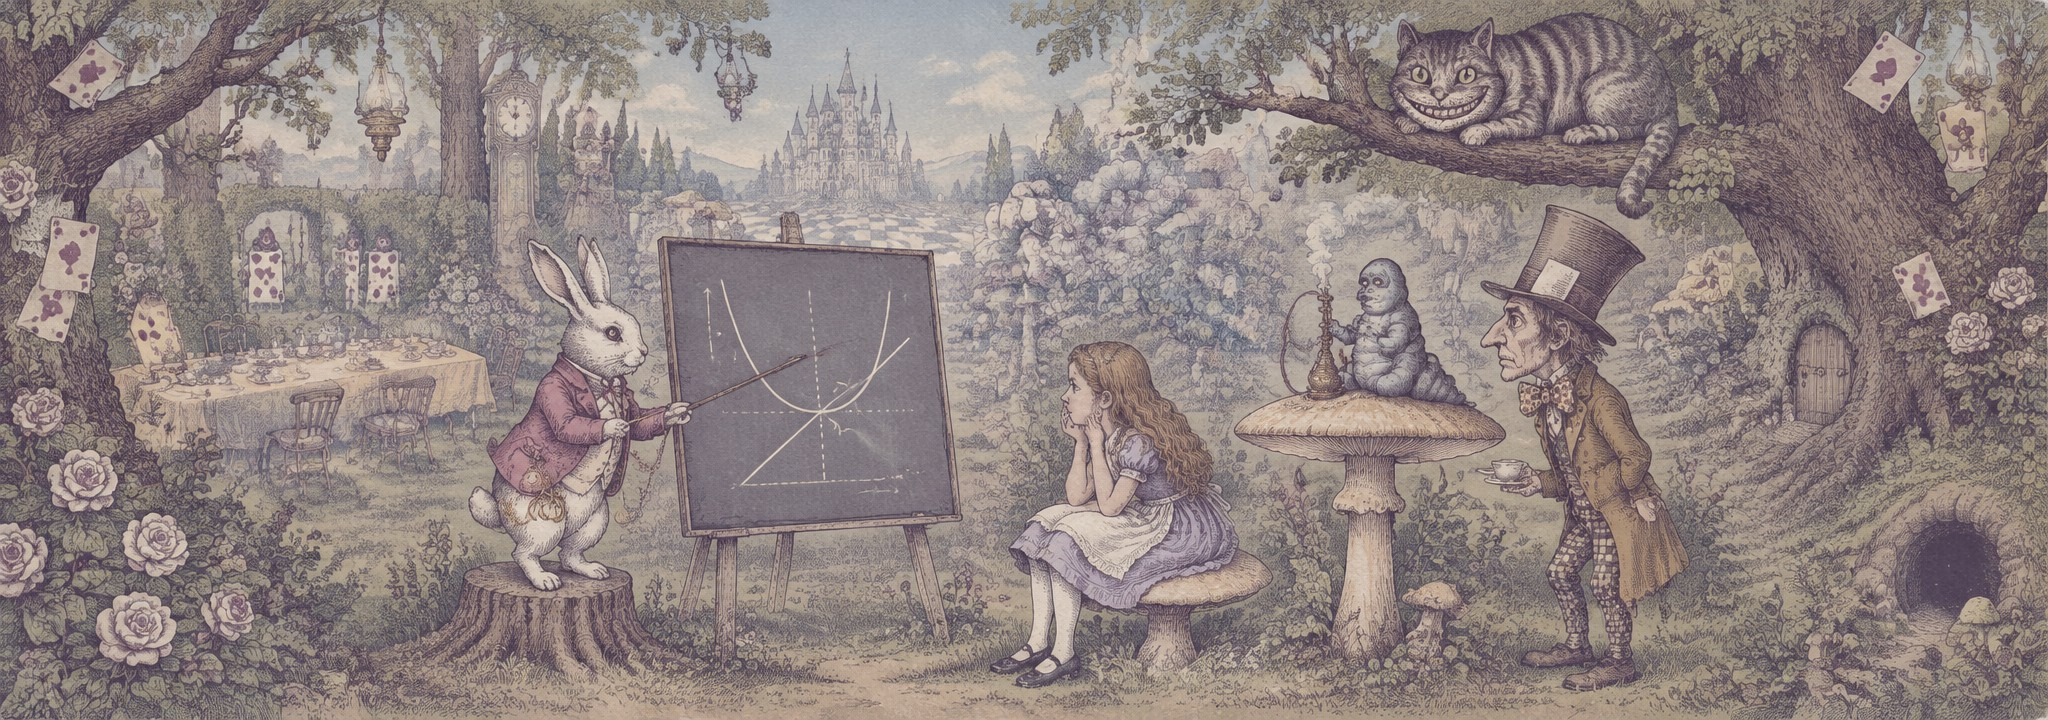
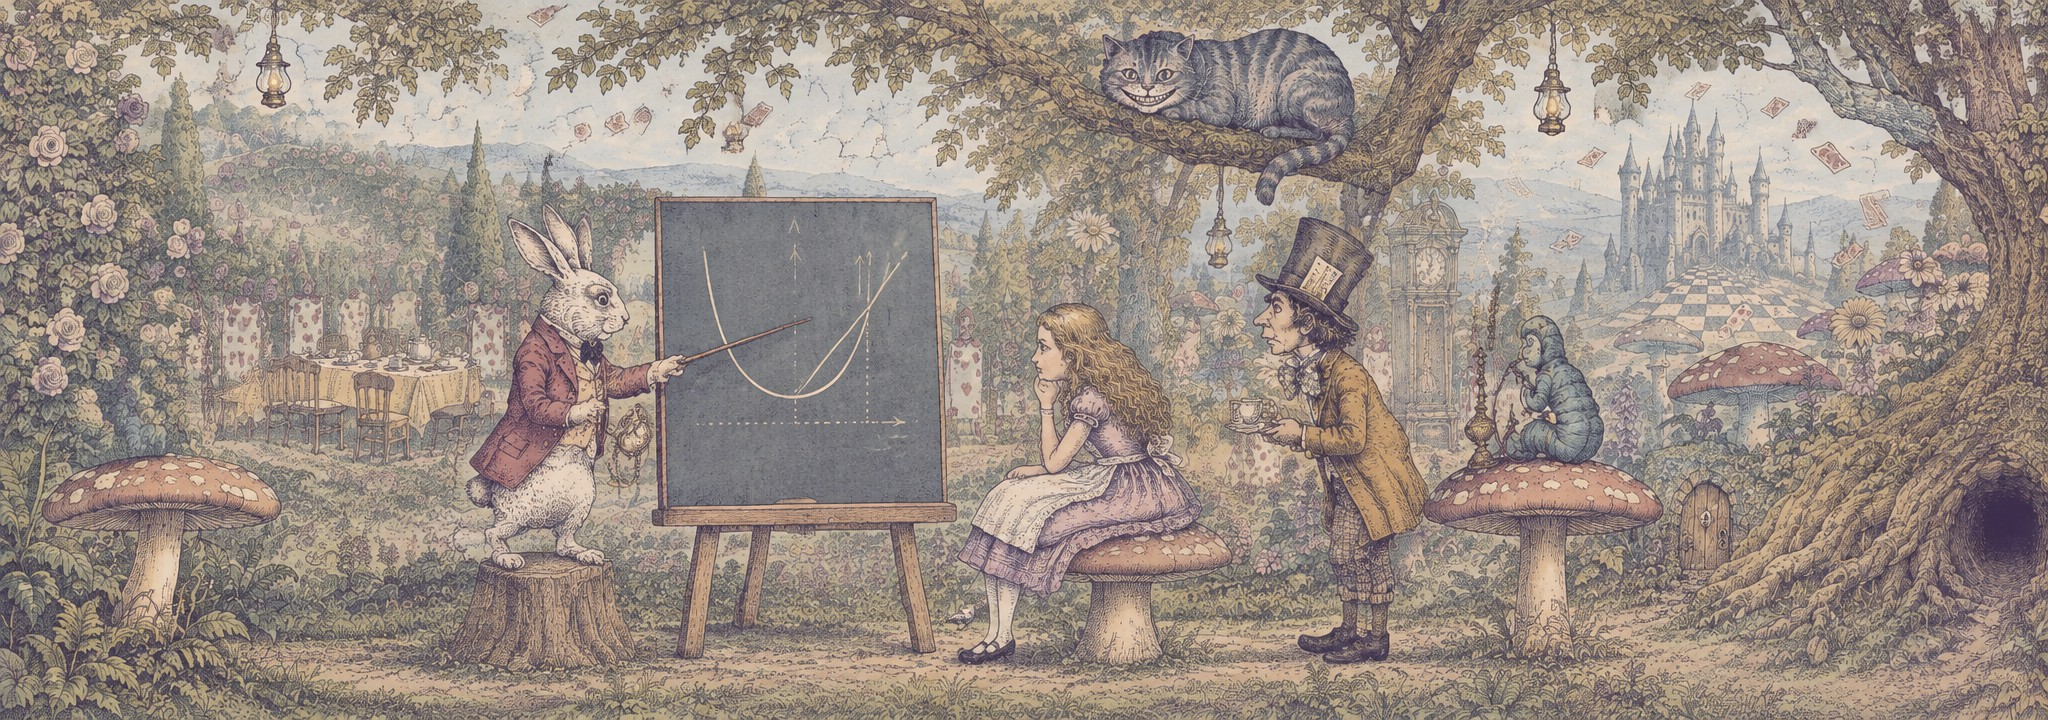
Blog heroes: the first hero is attached as a reference plate to every blog hero call so the characters match it; sharper character sheet; /explain hero regenerated

diff --git a/packages/web/design/art/explain-post-hero.prompt.md b/packages/web/design/art/explain-post-hero.prompt.md
@@ -4,4 +4,4 @@ Generated 2026-11-13 with GPT Image 2.5 Flare (gpt-image-2.5-flare, 2048x720) by
 
 ## Prompt
 
-Hand-drawn illustration in the style of a 19th-century book engraving, in the spirit of Tenniel's 1865 illustrations for Alice's Adventures in Wonderland and not the Disney designs, loose cross-hatching, slightly faded as if printed decades ago. A full panoramic Wonderland scene that fills the whole canvas edge to edge with no empty margins. In the foreground, grouped within the middle 55% of the width and all on one ground line: on the left, the White Rabbit stands on a tree stump holding a long wooden pointer, lecturing, and gesturing at a large upright chalkboard on an easel beside him; the chalkboard shows a simple hand-drawn engraved diagram with no lettering and no numerals, only a smooth parabola with a straight tangent line touching it and a few small arrows and dotted lines; on the right, Alice sits on a mushroom listening with her chin in her hand, looking at the board; the Caterpillar on a tall toadstool, smaller, and the Mad Hatter holding his teacup stand close by, both watching; the Cheshire Cat perched on a bough above them with its grin fully drawn. Character designs, identical in every illustration of this series, so draw each one exactly like this: White Rabbit: a white rabbit standing upright like a small gentleman, long upright ears, a short dusty-rose jacket with lapels over a pale waistcoat, a gold pocket watch on a chain, small bright eye, drawn in Tenniel's engraved manner. Alice: a girl with long wavy light-brown hair worn loose to her waist and no headband, a pale lavender dress with short puffed sleeves, a white pinafore apron, white stockings and black Mary Jane shoes. Mad Hatter: a thin gaunt man with a long face and a large nose, a very tall brown top hat with a paper tag tucked in its band, a large bow tie, a long muted-ochre tailcoat and checked trousers, a teacup and saucer in his hand. Caterpillar: a plump blue-grey caterpillar sitting upright on a toadstool, drawn small, smoking a long hookah, with a calm heavy-lidded face. Cheshire Cat: a large grey-plum striped tabby with a very wide fully drawn grin and bright eyes, stretched along a tree bough. Behind them, a rich layered Wonderland receding into the distance, drawn in finer, lighter, fainter hatching so the foreground figures stand clearly forward: an overgrown garden of tall rose hedges and twisting old trees, a mad tea-party table set with teapots and cups, playing-card soldiers standing guard, giant mushrooms and oversized flowers, a grandfather clock among the trees, a tiny locked door at the foot of a great tree, hanging oil lamps, playing cards drifting through the air, and a distant castle with a checkerboard floor, with the dark mouth of a rabbit hole between tree roots near the right edge. Hand-coloured in soft, muted, washed-out watercolour tints laid over the ink line work, like a faded vintage hand-tinted book plate: pale sage and moss greens in the foliage and hedges, cream-white roses shaded with pale plum, soft powder blue (#A9BCCB) across the sky and distant hills, warm muted ochre (#D8C08C) on the tea table and the mushroom caps, cream and pale sage on the toadstools, the playing cards drawn in plum ink with at most a faint touch of dusty rose, a faded slate blue-grey for any chalkboard with pale chalk lines; the characters keep exactly the colours of their sheet; no red and no strong pink anywhere except the White Rabbit's dusty-rose jacket, off-white paper #F4F3EF and deep plum ink #3D2A5C for the line work. Low saturation, low contrast, matte, subtle paper grain, no pure black and no pure white anywhere. No text, no lettering, no numbers anywhere. A very wide panoramic strip, about 2.85 times wider than tall (16:5.6): compose every figure, including the Cheshire Cat on its bough, and the whole scene inside this wide low frame, with nothing cropped.
+The attached image is the reference plate of this illustration series. Draw a completely NEW scene, but draw the White Rabbit, Alice, the Mad Hatter, the Caterpillar and the Cheshire Cat exactly as they look in the reference plate: the same faces, hair, clothes, proportions, colours and engraved manner. Do not copy the reference plate's composition. Hand-drawn illustration in the style of a 19th-century book engraving, in the spirit of Tenniel's 1865 illustrations for Alice's Adventures in Wonderland and not the Disney designs, loose cross-hatching, slightly faded as if printed decades ago. A full panoramic Wonderland scene that fills the whole canvas edge to edge with no empty margins. In the foreground, grouped within the middle 55% of the width and all on one ground line: on the left, the White Rabbit stands on a tree stump holding a long wooden pointer, lecturing, and gesturing at a large upright chalkboard on an easel beside him; the chalkboard shows a simple hand-drawn engraved diagram with no lettering and no numerals, only a smooth parabola with a straight tangent line touching it and a few small arrows and dotted lines; on the right, Alice sits on a mushroom listening with her chin in her hand, looking at the board; the Caterpillar on a tall toadstool, smaller, and the Mad Hatter holding his teacup stand close by, both watching; the Cheshire Cat perched on a bough above them with its grin fully drawn. Character designs, identical in every illustration of this series, so draw each one exactly like this: White Rabbit: a fluffy white rabbit with finely hatched fur, tall upright ears and a small dark eye, dressed like a gentleman in a muted dusty-rose crimson frock jacket with a high collar and lapels over a cream waistcoat and a small dark cravat, a gold pocket watch on a chain held in one paw, drawn like Tenniel's rabbit. Alice: a slim girl with long wavy golden-blonde hair worn loose past her shoulders and no headband, a pale lavender dress with short puffed sleeves and a ruffled hem, a white pinafore apron with a frilled edge and a bow at the back, white stockings and flat black Mary Jane shoes. Mad Hatter: a thin man with a long nose and a long gaunt face seen in profile, a mop of dark curly hair, a very tall dark grey top hat with a paper tag tucked in its band, a large patterned bow tie, a long muted-mustard ochre frock coat, checked knee breeches with dark stockings and black shoes, a teacup and saucer held in one hand. Caterpillar: a blue-green segmented caterpillar with a ringed striped body and a small calm face, sitting upright on a red-brown spotted mushroom cap, drawn small, smoking a tall brass hookah. Cheshire Cat: a large grey-plum tabby with dark stripes, big round eyes and a very wide fully drawn toothy grin, stretched along a tree bough. Behind them, a rich layered Wonderland receding into the distance, drawn in finer, lighter, fainter hatching so the foreground figures stand clearly forward: an overgrown garden of tall rose hedges and twisting old trees, a mad tea-party table set with teapots and cups, playing-card soldiers standing guard, giant mushrooms and oversized flowers, a grandfather clock among the trees, a tiny locked door at the foot of a great tree, hanging oil lamps, playing cards drifting through the air, and a distant castle with a checkerboard floor, with the dark mouth of a rabbit hole between tree roots near the right edge. Hand-coloured in soft, muted, washed-out watercolour tints laid over the ink line work, like a faded vintage hand-tinted book plate: pale sage and moss greens in the foliage and hedges, cream-white roses shaded with pale plum, soft powder blue (#A9BCCB) across the sky and distant hills, warm muted ochre (#D8C08C) on the tea table and the mushroom caps, cream and pale sage on the toadstools, the playing cards drawn in plum ink with at most a faint touch of dusty rose, a faded slate blue-grey for any chalkboard with pale chalk lines; the characters keep exactly the colours of their sheet; no red and no strong pink anywhere except the White Rabbit's dusty-rose jacket, off-white paper #F4F3EF and deep plum ink #3D2A5C for the line work. Low saturation, low contrast, matte, subtle paper grain, no pure black and no pure white anywhere. No text, no lettering, no numbers anywhere. A very wide panoramic strip, about 2.85 times wider than tall (16:5.6): compose every figure, including the Cheshire Cat on its bough, and the whole scene inside this wide low frame, with nothing cropped.

diff --git a/packages/web/design/art/characters.md b/packages/web/design/art/characters.md
@@ -2,14 +2,14 @@
 
 The saved character sheet for every blog hero (owner, 2026-11-13: the characters must stay the same from image to image).
 `scripts/landing-art.mjs blog-hero|blog-post` pastes the lines under "Sheet" into every prompt, word for word, so edit them
-here and nowhere else. They follow the first hero (`rabbit-holes-not-courses`). Subject sentences name a character and say what
+here and nowhere else. They follow the first hero (`rabbit-holes-not-courses`), which is also kept as the reference image `characters-reference.jpg` that the pipeline hands to the model with every prompt. Subject sentences name a character and say what
 it does; they never re-describe its look or clothes. Dusty rose appears only on the White Rabbit's jacket (the palette allows
 one rose accent per image), so the scenery takes its colour from sage, powder blue, ochre, lavender and plum.
 
 ## Sheet
 
-White Rabbit: a white rabbit standing upright like a small gentleman, long upright ears, a short dusty-rose jacket with lapels over a pale waistcoat, a gold pocket watch on a chain, small bright eye, drawn in Tenniel's engraved manner.
-Alice: a girl with long wavy light-brown hair worn loose to her waist and no headband, a pale lavender dress with short puffed sleeves, a white pinafore apron, white stockings and black Mary Jane shoes.
-Mad Hatter: a thin gaunt man with a long face and a large nose, a very tall brown top hat with a paper tag tucked in its band, a large bow tie, a long muted-ochre tailcoat and checked trousers, a teacup and saucer in his hand.
-Caterpillar: a plump blue-grey caterpillar sitting upright on a toadstool, drawn small, smoking a long hookah, with a calm heavy-lidded face.
-Cheshire Cat: a large grey-plum striped tabby with a very wide fully drawn grin and bright eyes, stretched along a tree bough.
+White Rabbit: a fluffy white rabbit with finely hatched fur, tall upright ears and a small dark eye, dressed like a gentleman in a muted dusty-rose crimson frock jacket with a high collar and lapels over a cream waistcoat and a small dark cravat, a gold pocket watch on a chain held in one paw, drawn like Tenniel's rabbit.
+Alice: a slim girl with long wavy golden-blonde hair worn loose past her shoulders and no headband, a pale lavender dress with short puffed sleeves and a ruffled hem, a white pinafore apron with a frilled edge and a bow at the back, white stockings and flat black Mary Jane shoes.
+Mad Hatter: a thin man with a long nose and a long gaunt face seen in profile, a mop of dark curly hair, a very tall dark grey top hat with a paper tag tucked in its band, a large patterned bow tie, a long muted-mustard ochre frock coat, checked knee breeches with dark stockings and black shoes, a teacup and saucer held in one hand.
+Caterpillar: a blue-green segmented caterpillar with a ringed striped body and a small calm face, sitting upright on a red-brown spotted mushroom cap, drawn small, smoking a tall brass hookah.
+Cheshire Cat: a large grey-plum tabby with dark stripes, big round eyes and a very wide fully drawn toothy grin, stretched along a tree bough.

diff --git a/packages/web/src/landing/BLOG_IMAGE_GUIDE.md b/packages/web/src/landing/BLOG_IMAGE_GUIDE.md
@@ -76,3 +76,4 @@ Never ask which model: run `node scripts/landing-art.mjs blog-hero <slug> "<subj
 
 ## Characters stay the same (owner, 2026-11-13)
 The look of the White Rabbit, Alice, the Mad Hatter, the Caterpillar and the Cheshire Cat is saved once in `design/art/characters.md` and pasted word for word into every `blog-hero`/`blog-post` prompt, so subject sentences only name a character and say what it does. Edit the sheet there to change a character everywhere. The default tint sentence is now cool (sage, powder blue, ochre, lavender, plum); dusty rose appears only on the Rabbit's jacket.
+The first hero is also saved as `design/art/characters-reference.jpg` and attached to every blog hero call (an image edit), so the model sees the characters as well as reading the sheet. `--no-ref` turns that off.
